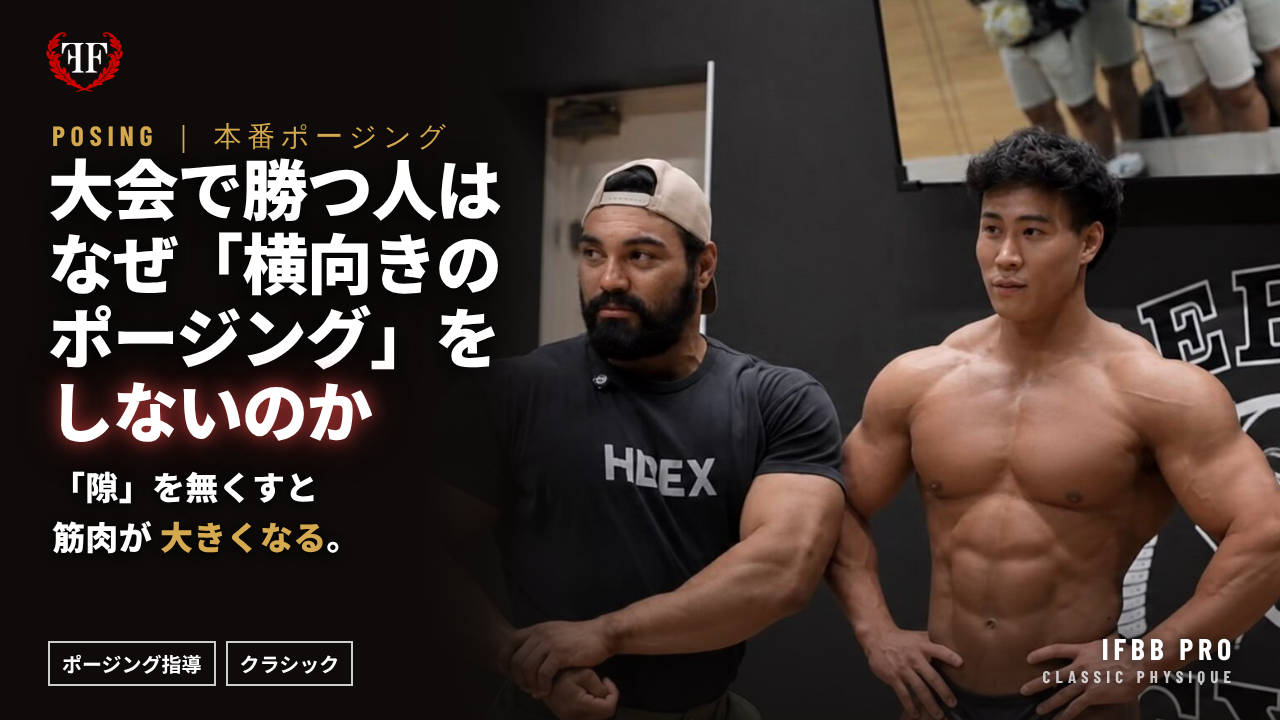
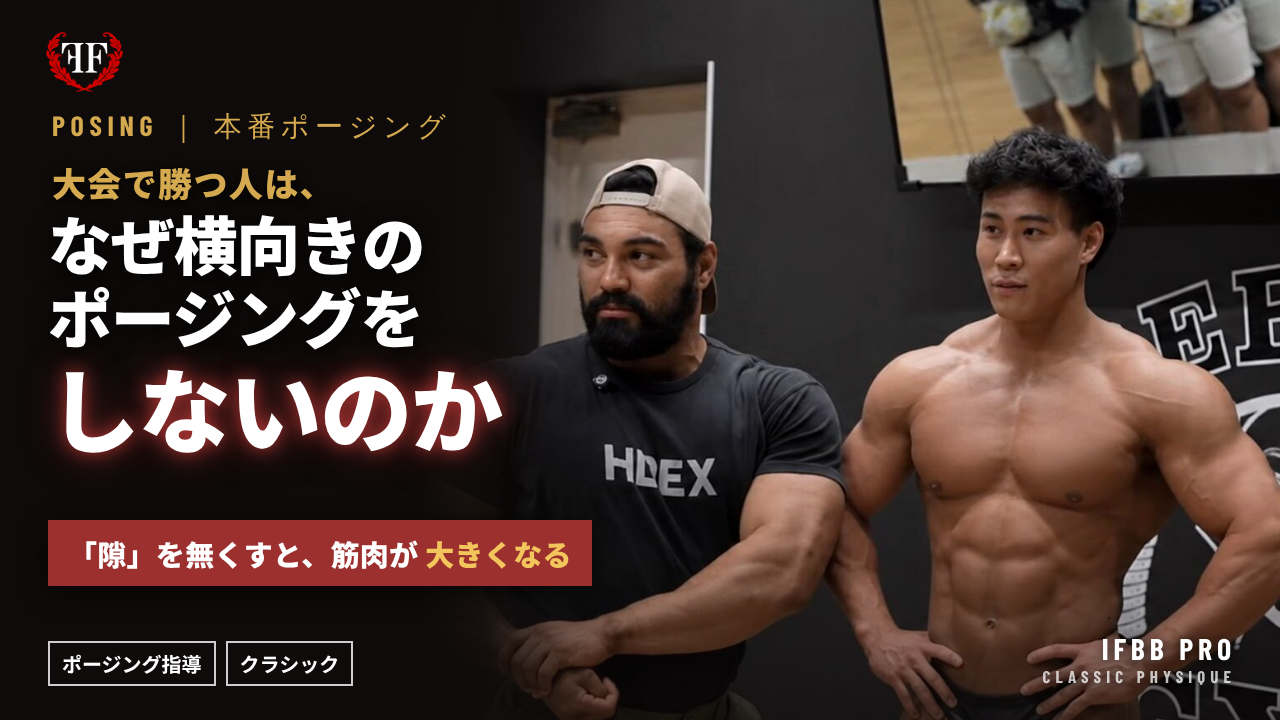
Posing thumbnail: text hierarchy and boxed sub line (#155)
* UPPER DAY thumbnail: three promise-led headline variants on the brand template

Claude-Session: https://claude.ai/code/session_01HRty6kL8VRnpLHHHzSF3iS

* Add post-live story images (thanks + next live 11/23) and story template

Claude-Session: https://claude.ai/code/session_01HRty6kL8VRnpLHHHzSF3iS

* Stories: stage photo, text in the lower third, date version with large 11.23

Claude-Session: https://claude.ai/code/session_01HRty6kL8VRnpLHHHzSF3iS

* Add 4:5 static ad creative (D-Static) on the brand template

Claude-Session: https://claude.ai/code/session_01HRty6kL8VRnpLHHHzSF3iS

* Add 7-slide Instagram carousel: overtraining recovery (brand template)

Claude-Session: https://claude.ai/code/session_01HRty6kL8VRnpLHHHzSF3iS

* Add free-lesson page (/lesson) with J3-style unlock flow, ad covers and video script

- lesson.html: locked video + name/email form (uniao-waitlist, source lesson-joints-*),
  unlocks on the page after submit, remembers on the device, Lead pixel on unlock,
  then THE NEXT QUESTION block and the UNIÃO card linking to /uniao
- netlify.toml: /lesson -> lesson.html
- assets/ads/lesson-joints: 4:5, 9:16 covers, og image, template, 6-minute script

Claude-Session: https://claude.ai/code/session_01HRty6kL8VRnpLHHHzSF3iS

* Lesson page: match the 13-minute bent-over row video (lead, bullets, title, cover)

Claude-Session: https://claude.ai/code/session_01HRty6kL8VRnpLHHHzSF3iS

* Add photo variant of the free-lesson ad cover
[…]

Changed region(s): [[0.0312, 0.1528, 0.4688, 0.825]]

diff --git a/assets/yt/posing-thumb-template.html b/assets/yt/posing-thumb-template.html
@@ -9,7 +9,7 @@ body{font-family:"NS",sans-serif;color:#fff;position:relative}
 .logo{position:absolute;left:44px;top:30px;height:64px}
 .part{position:absolute;right:44px;bottom:118px;background:#9C302E;font-family:"BC",sans-serif;font-size:26px;letter-spacing:.1em;padding:8px 16px;line-height:1;display:flex;align-items:baseline;gap:8px}
 .part b{font-size:40px;line-height:.9}
-.lbl{position:absolute;left:52px;top:118px;font-family:"BC",sans-serif;font-size:28px;letter-spacing:.2em;color:#D4A94F}
+.lbl{position:absolute;left:52px;top:108px;font-family:"BC",sans-serif;font-size:28px;letter-spacing:.2em;color:#D4A94F}
 .h{position:absolute;left:48px;top:150px;font-size:66px;font-weight:900;line-height:1.12;letter-spacing:-.02em;white-space:nowrap;text-shadow:0 4px 24px rgba(0,0,0,.9)}
 .h em{font-style:normal;color:#fff;text-shadow:0 0 18px rgba(185,58,56,.95),0 0 40px rgba(185,58,56,.6),0 4px 24px rgba(0,0,0,.8)}
 .s{position:absolute;left:52px;top:462px;font-size:33px;line-height:1.5;font-weight:900;color:#fff;letter-spacing:.01em;text-shadow:0 2px 12px rgba(0,0,0,.9)}
@@ -18,12 +18,19 @@ body{font-family:"NS",sans-serif;color:#fff;position:relative}
 .tag span{font-size:20px;font-weight:700;border:2px solid rgba(255,255,255,.8);padding:6px 12px}
 .pro{position:absolute;right:44px;bottom:34px;text-align:right;font-family:"BC",sans-serif;font-size:30px;letter-spacing:.16em;text-shadow:0 2px 12px rgba(0,0,0,.9)}
 .pro small{display:block;font-size:17px;letter-spacing:.3em;color:rgba(255,255,255,.75)}
+
+.lead{position:absolute;left:52px;top:158px;font-size:34px;font-weight:900;color:#D4A94F;letter-spacing:.04em;text-shadow:0 2px 12px rgba(0,0,0,.9)}
+.h2{position:absolute;left:48px;top:206px;font-size:64px;font-weight:900;line-height:1.14;letter-spacing:-.02em;white-space:nowrap;text-shadow:0 4px 24px rgba(0,0,0,.9)}
+.h2 em{font-style:normal;display:block;font-size:92px;line-height:1.05;margin-top:6px;color:#fff;text-shadow:0 0 18px rgba(185,58,56,.95),0 0 40px rgba(185,58,56,.6),0 4px 24px rgba(0,0,0,.8)}
+.box{position:absolute;left:48px;top:520px;background:#9C302E;color:#fff;font-size:29px;font-weight:900;padding:12px 20px;letter-spacing:.01em;white-space:nowrap;box-shadow:0 6px 24px rgba(0,0,0,.6)}
+.box b{color:#F2C65C}
 </style></head><body>
 <div class="bg"></div><div class="fade"></div>
 <img class="logo" src="logo.png" alt="">
 <p class="lbl">POSING ｜ 本番ポージング</p>
-<p class="h">大会で勝つ人は<br>なぜ「横向きの<br>ポージング」を<br><em>しないのか</em></p>
-<p class="s">「隙」を無くすと<br>筋肉が <b>大きくなる</b>。</p>
+<p class="lead">大会で勝つ人は、</p>
+<p class="h2">なぜ横向きの<br>ポージングを<em>しないのか</em></p>
+<p class="box">「隙」を無くすと、筋肉が <b>大きくなる</b></p>
 <div class="tag"><span>ポージング指導</span><span>クラシック</span></div>
 <p class="pro">IFBB PRO<small>CLASSIC PHYSIQUE</small></p>
 </body></html>
